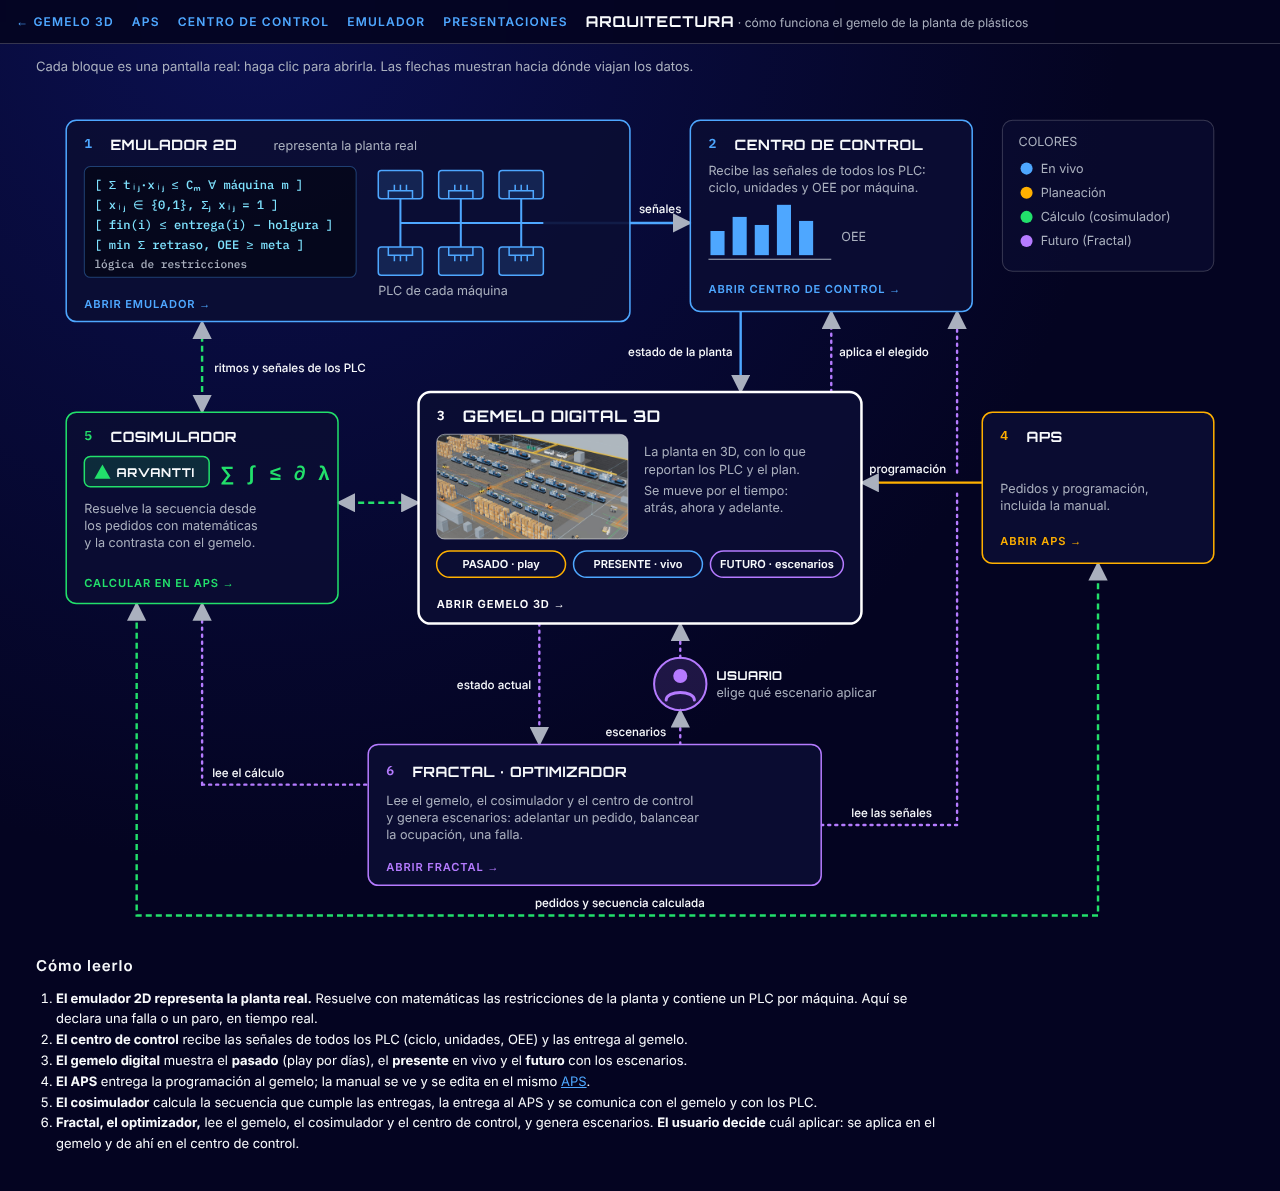
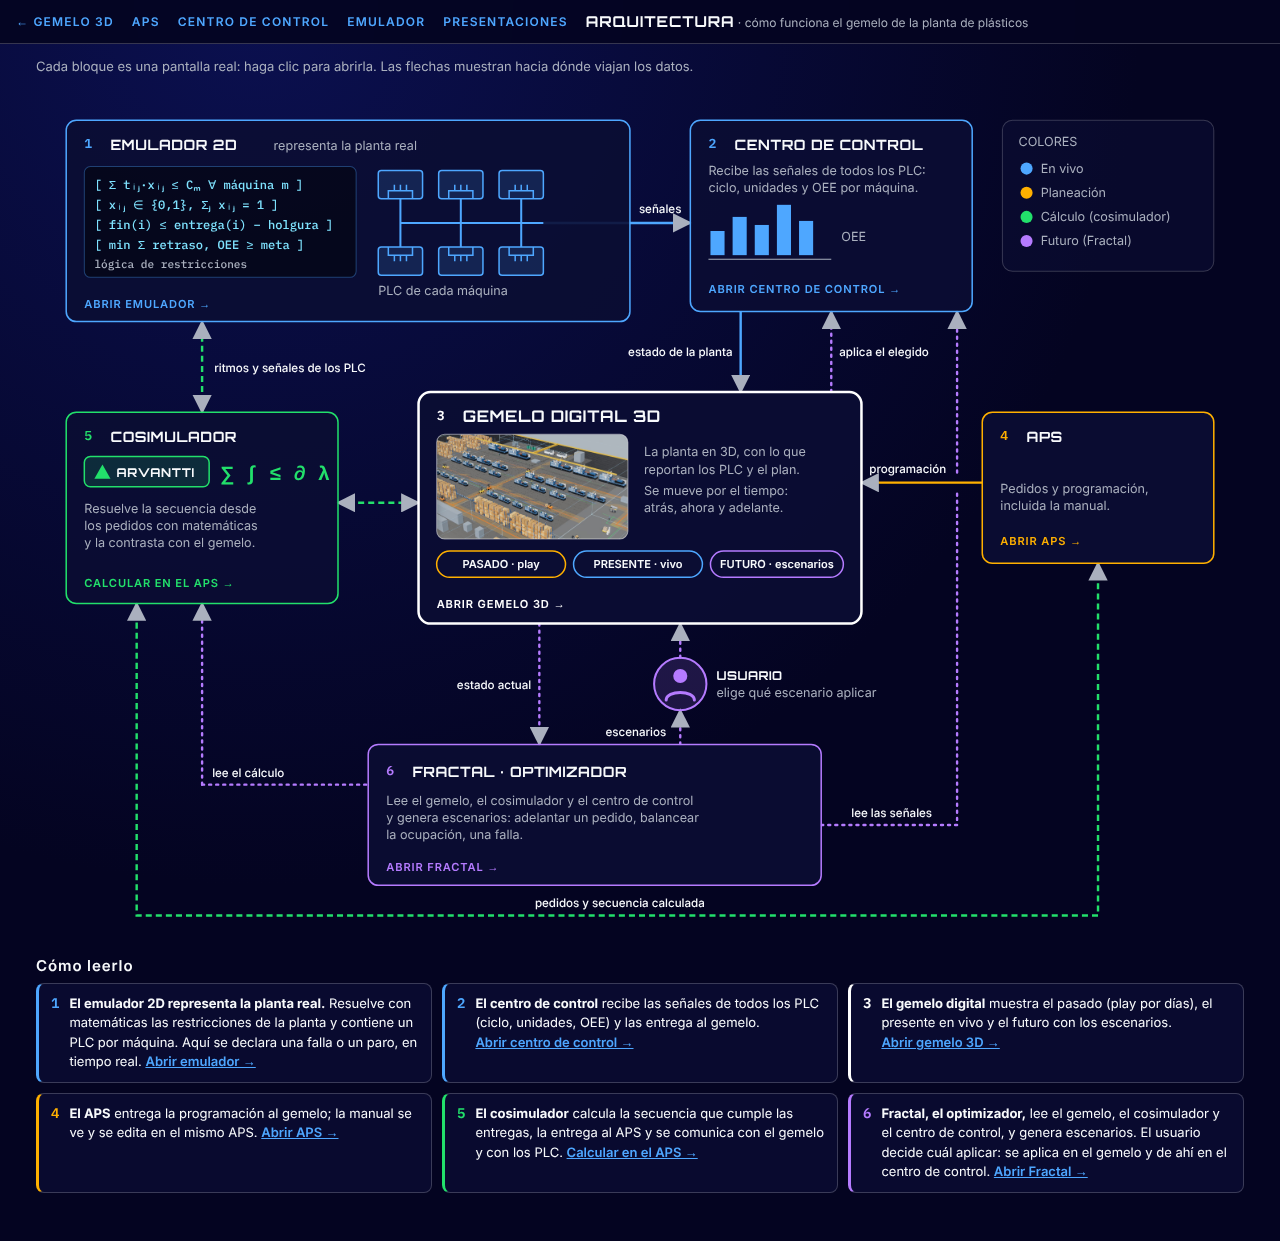
Arquitectura: diseño responsive y tarjetas con enlaces
Claude-Session: https://claude.ai/code/session_01V6M9Ltksmmm9rcyhRpi2VM

diff --git a/apps/gallery/arquitectura.html b/apps/gallery/arquitectura.html
@@ -19,7 +19,8 @@
     <main class="ar-main">
       <p class="ar-lead">Cada bloque es una pantalla real: haga clic para abrirla. Las flechas muestran hacia dónde viajan los datos.</p>
 
-      <svg class="ar-svg" viewBox="0 0 1200 850" role="img" aria-labelledby="ar-t ar-d">
+      <p class="ar-hint">↔ Desliza el diagrama para verlo completo</p>
+      <div class="ar-scroll"><svg class="ar-svg" viewBox="0 0 1200 850" role="img" aria-labelledby="ar-t ar-d">
         <title id="ar-t">Arquitectura del gemelo digital de la planta de plásticos</title>
         <desc id="ar-d">El emulador 2D representa la planta real y contiene muchos PLC; todas sus señales llegan al centro de control. El centro de control alimenta al gemelo digital, que muestra pasado, presente y futuro. El APS entrega la programación al gemelo. El cosimulador intercambia datos con el gemelo y con los PLC. Fractal, el optimizador, lee el gemelo, el cosimulador y el centro de control, genera escenarios y un usuario decide cuál aplicar en el gemelo y en el centro de control.</desc>
         <defs>
@@ -166,16 +167,16 @@
           <circle cx="984" cy="136" r="6" class="ar-dot calc" /><text class="ar-s" x="998" y="140">Cálculo (cosimulador)</text>
           <circle cx="984" cy="160" r="6" class="ar-dot fut" /><text class="ar-s" x="998" y="164">Futuro (Fractal)</text>
         </g>
-      </svg>
+      </svg></div>
 
       <h2 class="ar-h2">Cómo leerlo</h2>
       <ol class="ar-steps">
-        <li><b>El emulador 2D representa la planta real.</b> Resuelve con matemáticas las restricciones de la planta y contiene un PLC por máquina. Aquí se declara una falla o un paro, en tiempo real.</li>
-        <li><b>El centro de control</b> recibe las señales de todos los PLC (ciclo, unidades, OEE) y las entrega al gemelo.</li>
-        <li><b>El gemelo digital</b> muestra el <b>pasado</b> (play por días), el <b>presente</b> en vivo y el <b>futuro</b> con los escenarios.</li>
-        <li><b>El APS</b> entrega la programación al gemelo; la manual se ve y se edita en el mismo <a href="/aps.html">APS</a>.</li>
-        <li><b>El cosimulador</b> calcula la secuencia que cumple las entregas, la entrega al APS y se comunica con el gemelo y con los PLC.</li>
-        <li><b>Fractal, el optimizador,</b> lee el gemelo, el cosimulador y el centro de control, y genera escenarios. <b>El usuario decide</b> cuál aplicar: se aplica en el gemelo y de ahí en el centro de control.</li>
+        <li class="live"><span class="ar-num">1</span><div><b>El emulador 2D representa la planta real.</b> Resuelve con matemáticas las restricciones de la planta y contiene un PLC por máquina. Aquí se declara una falla o un paro, en tiempo real. <a href="/emulador.html">Abrir emulador →</a></div></li>
+        <li class="live"><span class="ar-num">2</span><div><b>El centro de control</b> recibe las señales de todos los PLC (ciclo, unidades, OEE) y las entrega al gemelo. <a href="/control.html">Abrir centro de control →</a></div></li>
+        <li class="twin"><span class="ar-num">3</span><div><b>El gemelo digital</b> muestra el pasado (play por días), el presente en vivo y el futuro con los escenarios. <a href="/plant.html?plant=plastic-injection-plant-v1">Abrir gemelo 3D →</a></div></li>
+        <li class="plan"><span class="ar-num">4</span><div><b>El APS</b> entrega la programación al gemelo; la manual se ve y se edita en el mismo APS. <a href="/aps.html">Abrir APS →</a></div></li>
+        <li class="calc"><span class="ar-num">5</span><div><b>El cosimulador</b> calcula la secuencia que cumple las entregas, la entrega al APS y se comunica con el gemelo y con los PLC. <a href="/aps.html?tab=gantt">Calcular en el APS →</a></div></li>
+        <li class="fut"><span class="ar-num">6</span><div><b>Fractal, el optimizador,</b> lee el gemelo, el cosimulador y el centro de control, y genera escenarios. El usuario decide cuál aplicar: se aplica en el gemelo y de ahí en el centro de control. <a href="/aps.html?tab=fractal">Abrir Fractal →</a></div></li>
       </ol>
     </main>
     <script type="module" src="/src/arquitectura.ts"></script>

diff --git a/apps/gallery/src/aps.css b/apps/gallery/src/aps.css
@@ -301,10 +301,18 @@ button.danger:hover { background: rgba(255, 59, 59, 0.4); border-color: #fff; }
 .ar-leg-box { fill: rgba(11, 13, 51, 0.6); stroke: var(--line); }
 .ar-dot.live { fill: #4ea7ff; } .ar-dot.plan { fill: #ffb000; } .ar-dot.calc { fill: #22e06b; } .ar-dot.fut { fill: #b57bff; }
 .ar-h2 { font: 600 15px Orbitron, sans-serif; letter-spacing: 0.06em; margin: 20px 0 8px; }
-.ar-steps { line-height: 1.6; padding-left: 20px; max-width: 900px; }
-.ar-steps a { color: var(--cyan); }
-@media (max-width: 700px) { .ar-svg { min-width: 760px; } .ar-main { overflow-x: auto; } }
-
+.ar-hint { display: none; color: var(--dim); font-size: 12px; margin: 4px 0; }
+.ar-scroll { overflow-x: auto; -webkit-overflow-scrolling: touch; }
+.ar-steps { list-style: none; padding: 0; margin: 0 0 24px; display: grid; grid-template-columns: repeat(auto-fit, minmax(300px, 1fr)); gap: 10px; line-height: 1.5; }
+.ar-steps li { display: flex; gap: 10px; padding: 10px 12px; border: 1px solid var(--line); border-left: 3px solid var(--c); border-radius: var(--radius-surface); background: var(--glass); }
+.ar-steps li.live { --c: #4ea7ff; } .ar-steps li.plan { --c: #ffb000; } .ar-steps li.calc { --c: #22e06b; } .ar-steps li.fut { --c: #b57bff; } .ar-steps li.twin { --c: #fff; }
+.ar-num { font: 700 14px "IBM Plex Mono", monospace; color: var(--c); }
+.ar-steps a { color: var(--cyan); white-space: nowrap; font-weight: 600; }
+@media (max-width: 900px) {
+  .ar-svg { min-width: 1000px; }
+  .ar-hint { display: block; }
+  .ar-main { padding: 0 12px 24px; }
+}
 .ar-code-bg { fill: rgba(0, 0, 0, 0.45) !important; stroke: rgba(78, 167, 255, 0.35) !important; stroke-width: 1 !important; }
 .ar-code { font: 500 12px "IBM Plex Mono", monospace; fill: #7fe3ff; }
 .ar-code.dim { fill: var(--dim); font-size: 11px; }
